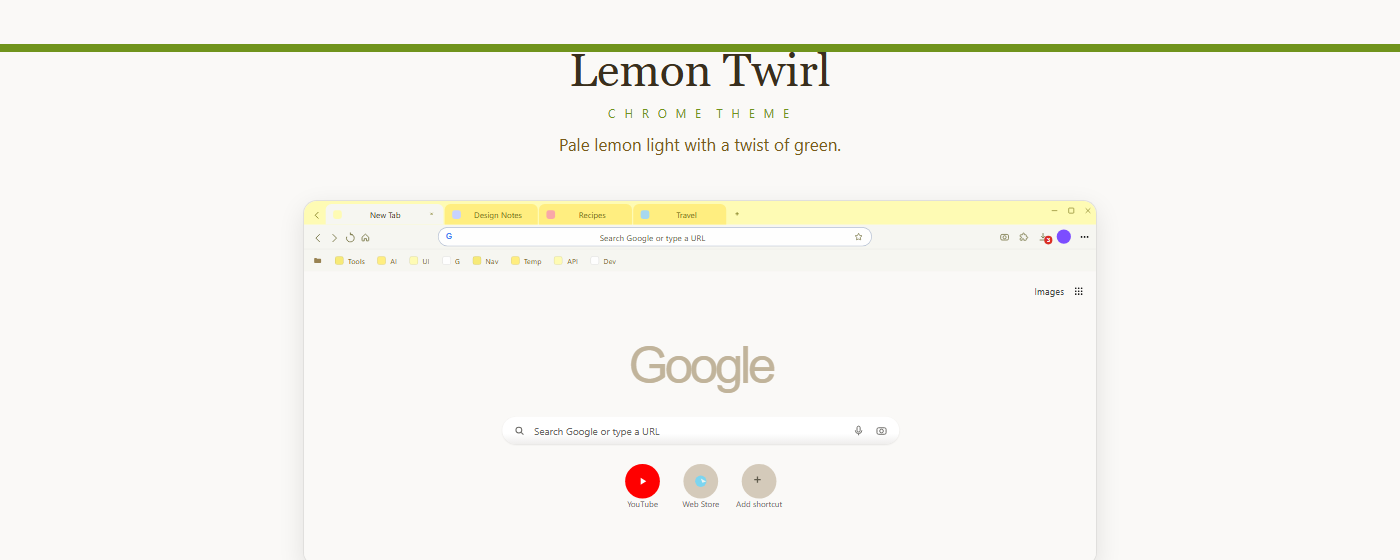
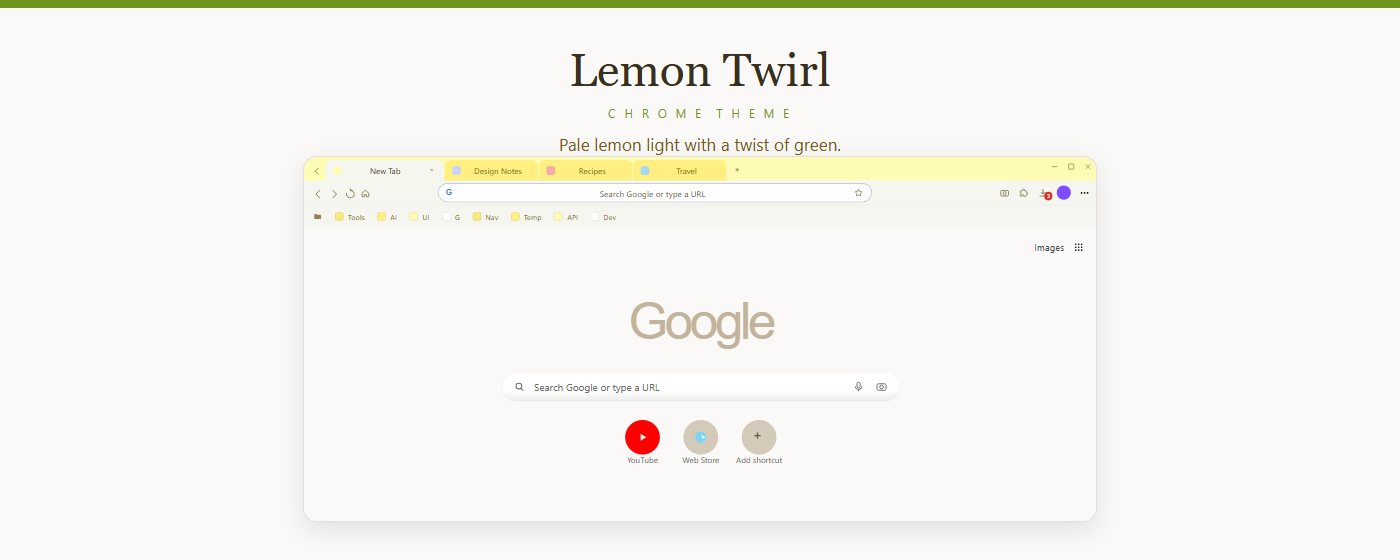
修复 promo 构图偏移：首个元素的 margin 折叠把整体下推 44px，改用 body padding；PIL 保存改相对路径避免中文路径 OSError 22

diff --git a/store-assets/references/promo-440x280.html b/store-assets/references/promo-440x280.html
@@ -1,12 +1,15 @@
 <!doctype html><html><head><meta charset='utf-8'><style>
 * { margin:0; padding:0; box-sizing:border-box; }
+/* padding-top, not margin-top on the first child: a collapsed margin would shift
+   the whole canvas down and push the accent bar off the top edge */
 body { width:440px; height:280px; background:#FEFBB4; overflow:hidden;
         font-family:"Segoe UI", Arial, sans-serif; color:#392F1E;
-        display:flex; flex-direction:column; align-items:center; position:relative; }
+        display:flex; flex-direction:column; align-items:center; position:relative;
+        padding-top:30px; }
 .bar { position:absolute; left:0; bottom:0; width:440px; height:14px;
         background:#70941D; }
 .card { width:112px; height:112px; border-radius:26px; background:#FFFFFF;
-         margin-top:30px; display:flex; align-items:center; justify-content:center;
+         display:flex; align-items:center; justify-content:center;
          box-shadow:0 4px 12px rgba(0,0,0,.10); }
 .card img { width:88px; height:88px; }
 .name { font-family:Georgia, "Times New Roman", serif; font-size:33px; margin-top:16px; }

diff --git a/store-assets/references/promo-1400x560.html b/store-assets/references/promo-1400x560.html
@@ -74,12 +74,14 @@ body { font-family:"Segoe UI", Arial, sans-serif; -webkit-font-smoothing:antiali
               background:#202124; color:#FFFFFF; display:flex; align-items:center; gap:9px;
               padding:0 15px 0 13px; font-size:13px; }
 
+/* padding-top instead of a margin on the title: the collapsed margin used to
+   push the canvas down 44px and leave the accent bar floating mid-canvas */
 body { width:1400px; height:560px; background:#FAF9F7; overflow:hidden;
-        position:relative; text-align:center; }
+        position:relative; text-align:center; padding-top:44px; }
 .accent { position:absolute; top:0; left:0; width:1400px; height:8px;
            background:#70941D; }
 .title { font-family:Georgia, "Times New Roman", serif; font-size:46px;
-          color:#392F1E; margin-top:44px; }
+          color:#392F1E; }
 .eyebrow { font-size:11.5px; letter-spacing:3px; color:#70941D; margin-top:10px;
             white-space:pre; }
 .sub { font-size:17px; color:#785B1C; margin-top:12px; }

diff --git a/scripts/generate-store-assets.py b/scripts/generate-store-assets.py
@@ -388,13 +388,16 @@ def html_promo_small(c):
     eyebrow = COPY["promo_eyebrow"]
     return f"""<!doctype html><html><head><meta charset='utf-8'><style>
 * {{ margin:0; padding:0; box-sizing:border-box; }}
+/* padding-top, not margin-top on the first child: a collapsed margin would shift
+   the whole canvas down and push the accent bar off the top edge */
 body {{ width:440px; height:280px; background:{c['frame']}; overflow:hidden;
         font-family:"Segoe UI", Arial, sans-serif; color:{c['ink']};
-        display:flex; flex-direction:column; align-items:center; position:relative; }}
+        display:flex; flex-direction:column; align-items:center; position:relative;
+        padding-top:30px; }}
 .bar {{ position:absolute; left:0; bottom:0; width:440px; height:14px;
         background:{c['link']}; }}
 .card {{ width:112px; height:112px; border-radius:26px; background:#FFFFFF;
-         margin-top:30px; display:flex; align-items:center; justify-content:center;
+         display:flex; align-items:center; justify-content:center;
          box-shadow:0 4px 12px rgba(0,0,0,.10); }}
 .card img {{ width:88px; height:88px; }}
 .name {{ font-family:Georgia, "Times New Roman", serif; font-size:33px; margin-top:16px; }}
@@ -414,12 +417,14 @@ def html_promo_marquee(c):
     eyebrow = COPY["promo_eyebrow"]
     return f"""<!doctype html><html><head><meta charset='utf-8'><style>
 {base_css(c)}
+/* padding-top instead of a margin on the title: the collapsed margin used to
+   push the canvas down 44px and leave the accent bar floating mid-canvas */
 body {{ width:1400px; height:560px; background:{c['ntp']}; overflow:hidden;
-        position:relative; text-align:center; }}
+        position:relative; text-align:center; padding-top:44px; }}
 .accent {{ position:absolute; top:0; left:0; width:1400px; height:8px;
            background:{c['link']}; }}
 .title {{ font-family:Georgia, "Times New Roman", serif; font-size:46px;
-          color:{c['ink']}; margin-top:44px; }}
+          color:{c['ink']}; }}
 .eyebrow {{ font-size:11.5px; letter-spacing:3px; color:{c['link']}; margin-top:10px;
             white-space:pre; }}
 .sub {{ font-size:17px; color:{c['bookmark']}; margin-top:12px; }}
@@ -439,19 +444,22 @@ body {{ width:1400px; height:560px; background:{c['ntp']}; overflow:hidden;
 
 # ---------------------------------------------------------------- rendering
 def render(page, html, out_png, w, h):
+    """out_png is project-relative: Playwright gets short ASCII-ish paths too."""
     page.set_viewport_size({"width": w, "height": h})
     page.set_content(html, wait_until="load")
     page.wait_for_timeout(120)
-    page.screenshot(path=out_png)
+    page.screenshot(path=os.path.relpath(out_png, ROOT))
     return out_png
 
 
 def to_rgb(src, dst, size):
-    img = Image.open(src).convert("RGB")
-    assert img.size == size, "%s is %s, expected %s" % (src, img.size, size)
-    img.save(dst)
-    print("wrote %s  %dx%d" % (os.path.relpath(dst, ROOT).replace("\\", "/"),
-                               img.size[0], img.size[1]))
+    """PIL gets project-relative paths: absolute paths with non-ASCII characters
+    make Image.save() fail intermittently with OSError 22 on Windows."""
+    rel_src, rel_dst = os.path.relpath(src, ROOT), os.path.relpath(dst, ROOT)
+    img = Image.open(rel_src).convert("RGB")
+    assert img.size == size, "%s is %s, expected %s" % (rel_src, img.size, size)
+    img.save(rel_dst)
+    print("wrote %s  %dx%d" % (rel_dst.replace("\\", "/"), img.size[0], img.size[1]))
 
 
 def scan_copy():
@@ -461,6 +469,7 @@ def scan_copy():
 
 
 def main():
+    os.chdir(ROOT)          # every write below is project-relative on purpose
     scan_copy()
     for d in (REF_DIR, SHOT_DIR, PROMO_DIR):
         os.makedirs(d, exist_ok=True)
